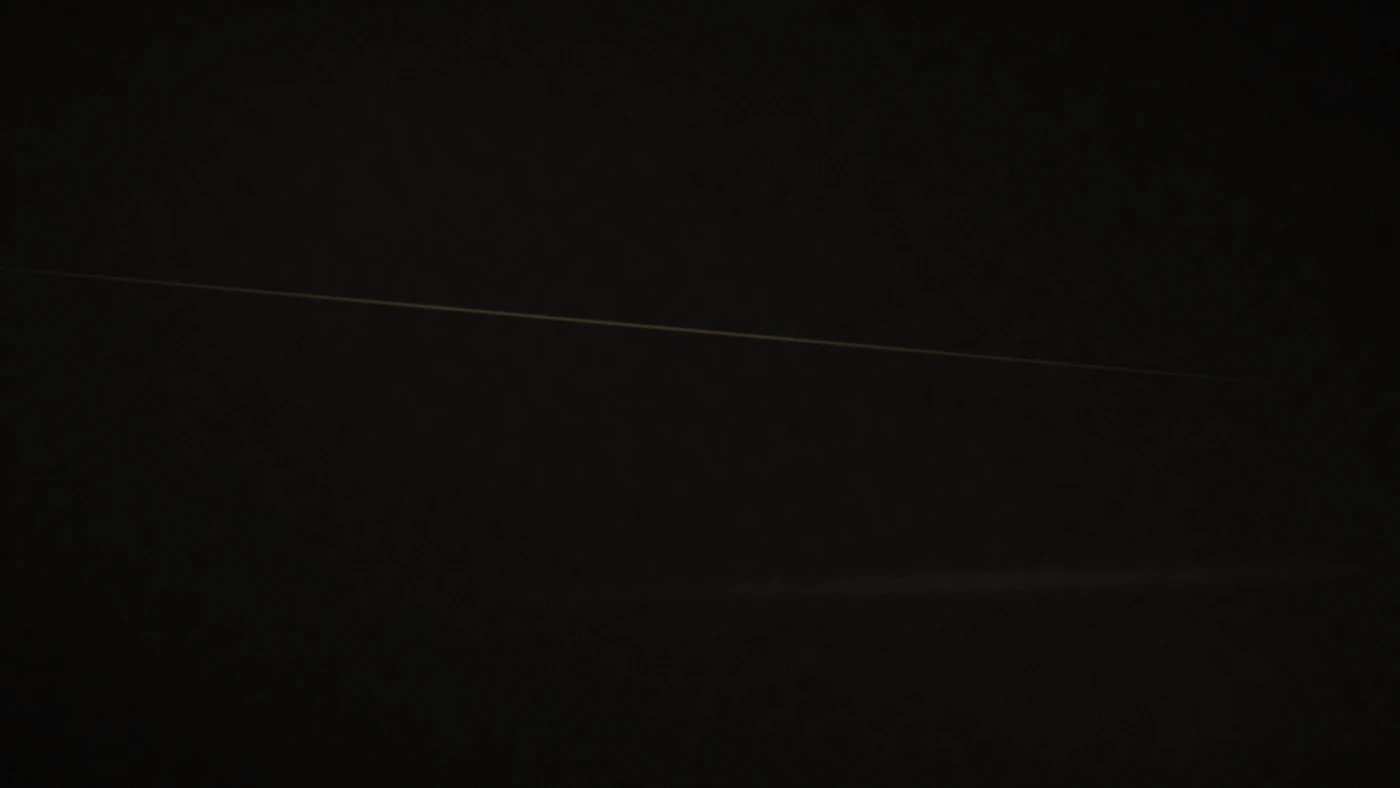
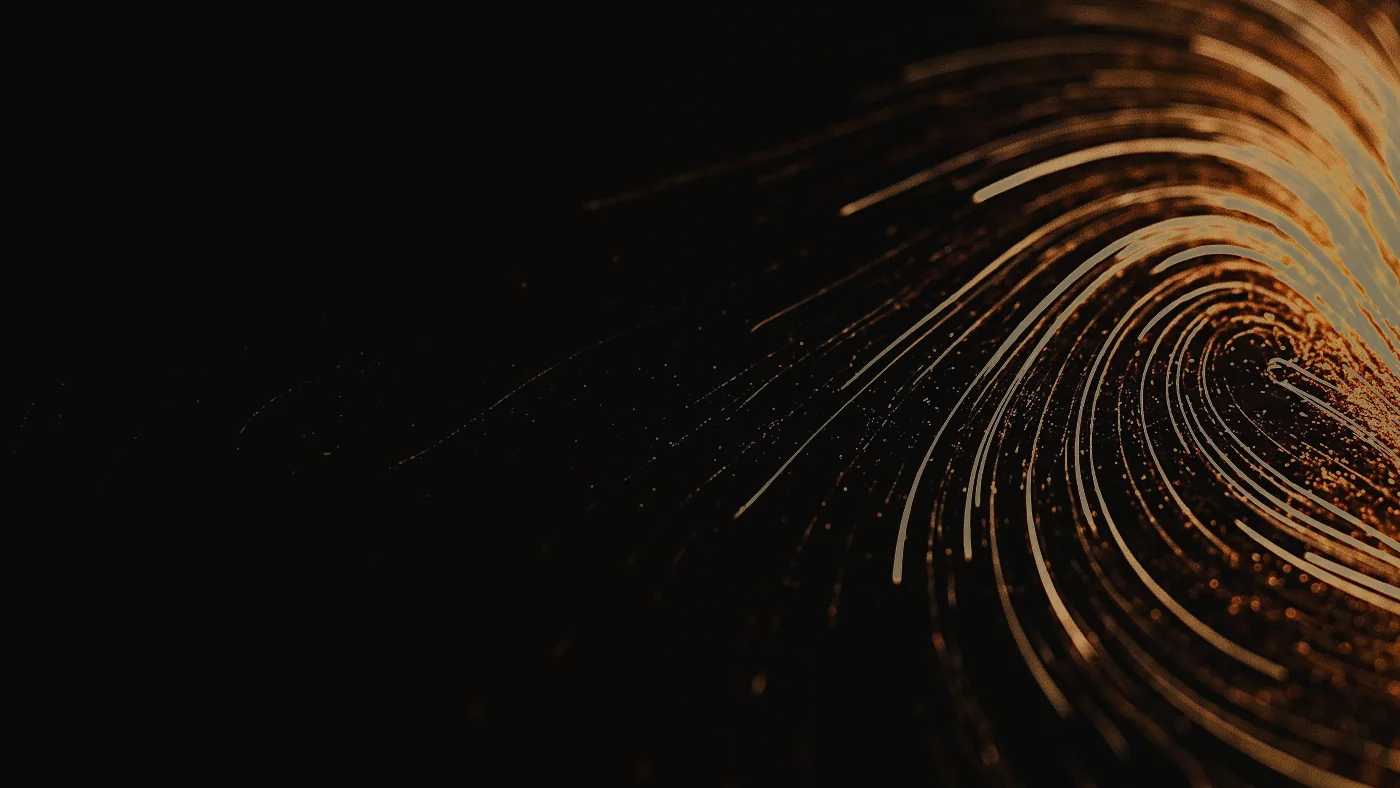
Use Brandon's flow image for the hero, graded to hold the copy
Replaces the placeholder material study with the supplied frame: gold
particle streaks curling from laminar into a vortex on near-black. Flow
made visible, which is the thing the site argues for.

Graded rather than dropped in as-is. Measured against the hero veil, the
raw frame put the headline at 2.85:1 where a bright streak crossed it,
and below 1024px — where the copy spans nearly the full width — the
background was brighter than the text at 0.86:1, which is unreadable.

Three changes to the plate: highlights roll toward candle instead of
clipping to white, since the palette has no white; the left third is
pulled down so the headline sits on near-black; and the blown edge no
longer bleeds off-frame. Small screens get an extra flat scrim in CSS
instead of a crushed image, so the picture survives at phone size.

Worst pixel under any line of copy is now 6.45:1 on desktop and 6.03:1
on mobile, against a 4.5:1 requirement. The mobile plate is cut from the
darker left of the frame and the social card from the same source, so
all three read as one image.

Claude-Session: https://claude.ai/code/session_01MCXr7a3Vh2FgbFXbBwpn3A

diff --git a/src/styles/rooms.css b/src/styles/rooms.css
@@ -97,6 +97,16 @@
       transparent 86%),
     linear-gradient(to top, var(--obsidian) 0%, transparent 42%);
 }
+/* Small screens: the copy spans nearly the full width, so it crosses the bright
+   part of the plate that the horizontal gradient alone does not cover. An extra
+   flat scrim holds every line at or above 6:1 there. */
+@media (max-width: 1023px) {
+  .hero__veil::after {
+    content: ''; position: absolute; inset: 0;
+    background: color-mix(in srgb, var(--obsidian) 45%, transparent);
+  }
+}
+
 @media (prefers-reduced-motion: no-preference) {
   .hero__veil { animation: breath var(--t-breath) var(--ease-in-out-soft) infinite; }
 }

diff --git a/HOLDS.md b/HOLDS.md
@@ -223,8 +223,22 @@ Confirmed. Investor and research oriented, with member access through to the Emm
 backend, and no mention of any funding body. Page-by-page plan in the accompanying
 message; build starts next, in the separate repository.
 
-### H10 — Hero imagery
-Brandon is producing the image. The current abstract material study holds the slot.
+### H10 — Hero imagery — **CLOSED**
+Brandon supplied the image: gold particle streaks curling from laminar into a
+vortex on near-black — flow made visible, which is what the site argues for.
+
+It was graded before shipping rather than dropped in as-is. Measured against the
+hero veil, the raw frame put the headline at **2.85:1** where a bright streak
+crossed it, and on small screens, where the copy spans nearly the full width, the
+background was brighter than the text — **0.86:1**, unreadable. Three changes:
+highlights roll toward candle instead of clipping to white (the palette has no
+white), the left third is pulled down so the headline sits on near-black, and the
+blown edge no longer bleeds off-frame. Small screens get an additional flat scrim
+in CSS rather than a crushed image, so the picture survives at phone size.
+
+Result: **6.45:1** on desktop and **6.03:1** on mobile at the worst pixel under any
+line of copy, against a 4.5:1 requirement. The social card is cut from the same
+frame.
 
 ---
 
